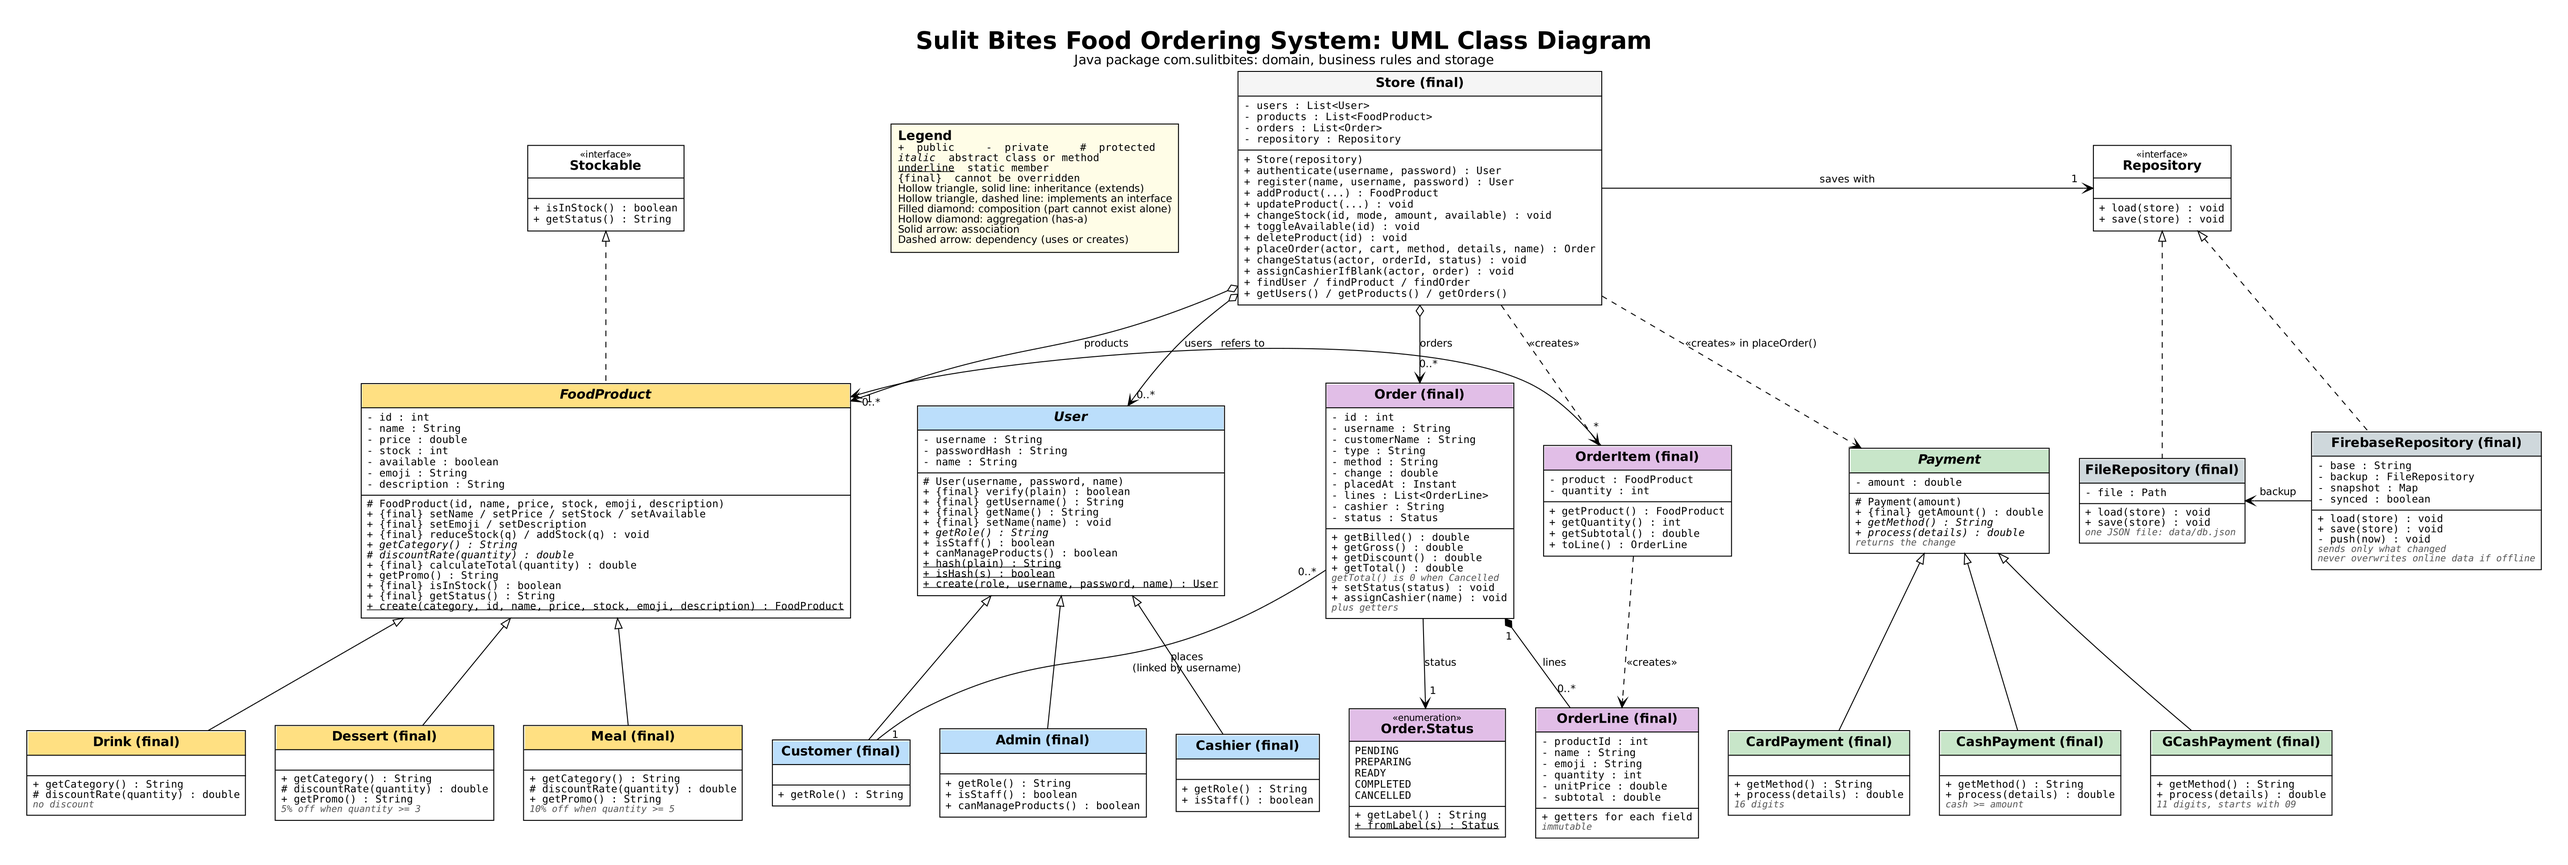
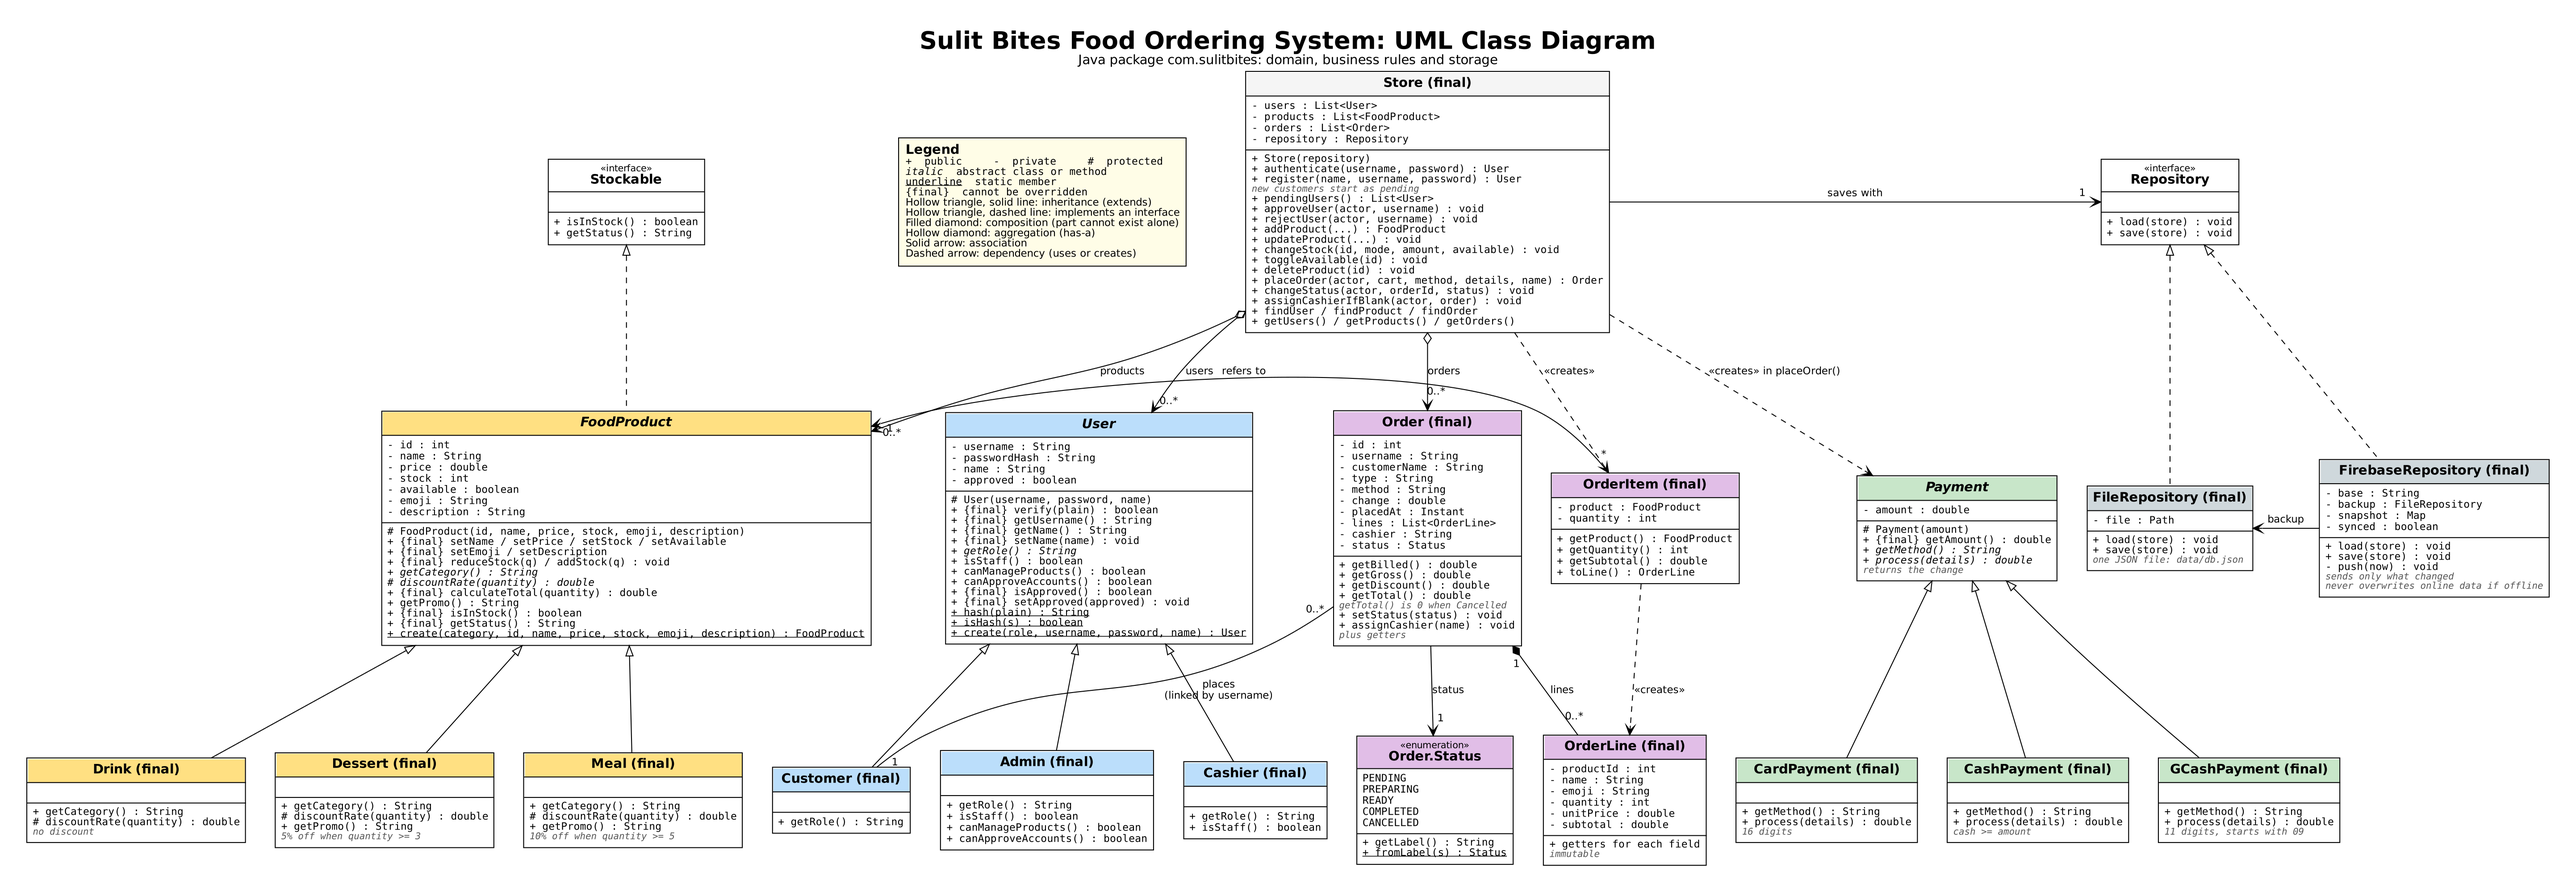
Add files via upload
Add logo in the login and before you create account admin accept you account

diff --git a/src/com/sulitbites/Pages.java b/src/com/sulitbites/Pages.java
@@ -120,19 +120,21 @@ final class Pages {
     private String row(String l, String r) { return "<div class='r'><span>" + l + "</span><span>" + r + "</span></div>"; }
 
     String login(Ctx c) {
-        return layout(c, "Login", "<section class='auth'><div class='card ac'><div class='tabs'><a class='pill on' href='/login'>Login</a><a class='pill' href='/register'>Register</a></div><h2>Welcome back</h2><br>"
+        return layout(c, "Login", "<section class='auth'><div class='card ac'>" + authLogo() + "<div class='tabs'><a class='pill on' href='/login'>Login</a><a class='pill' href='/register'>Register</a></div><h2>Welcome back</h2><br>"
             + "<form method='post' action='/login'><input name='username' class='in' placeholder='Username' aria-label='Username' required autocomplete='username'><input name='password' type='password' class='in' placeholder='Password' aria-label='Password' required autocomplete='current-password'><br><button class='btn lg full'>Login</button></form></div></section>");
     }
     String register(Ctx c) {
-        return layout(c, "Register", "<section class='auth'><div class='card ac'><div class='tabs'><a class='pill' href='/login'>Login</a><a class='pill on' href='/register'>Register</a></div><h2>Create your account</h2><br>"
-            + "<form method='post' action='/register'><input name='name' class='in' placeholder='Full name' aria-label='Full name' required><input name='username' class='in' placeholder='Username' aria-label='Username' required autocomplete='username'><input name='password' type='password' class='in' placeholder='Password (4+ characters)' aria-label='Password' required autocomplete='new-password'><br><button class='btn lg full'>Create account</button></form><p class='hint'>Username: 3 to 20 letters, numbers or underscores.</p></div></section>");
+        return layout(c, "Register", "<section class='auth'><div class='card ac'>" + authLogo() + "<div class='tabs'><a class='pill' href='/login'>Login</a><a class='pill on' href='/register'>Register</a></div><h2>Create your account</h2><br>"
+            + "<form method='post' action='/register'><input name='name' class='in' placeholder='Full name' aria-label='Full name' required><input name='username' class='in' placeholder='Username' aria-label='Username' required autocomplete='username'><input name='password' type='password' class='in' placeholder='Password (4+ characters)' aria-label='Password' required autocomplete='new-password'><br><button class='btn lg full'>Request account</button></form><p class='hint'>Username: 3 to 20 letters, numbers or underscores.</p><p class='hint'><b>New accounts need the admin's approval</b> before you can log in.</p></div></section>");
     }
 
     // ---------------------------------------------------------------- staff pages
     private String shell(Ctx c, String active, String inner) {
-        String[][] links = {{"dashboard", "/staff", "Dashboard", "0"}, {"products", "/staff/products", "Products", "1"}, {"orders", "/staff/orders", "Orders", "0"}, {"customers", "/staff/customers", "Customers", "1"}, {"payments", "/staff/payments", "Payments", "0"}};
+        String[][] links = {{"dashboard", "/staff", "Dashboard", "0"}, {"products", "/staff/products", "Products", "1"}, {"orders", "/staff/orders", "Orders", "0"}, {"customers", "/staff/customers", "Customers", "1"}, {"requests", "/staff/requests", "Account requests", "2"}, {"payments", "/staff/payments", "Payments", "0"}};
         StringBuilder b = new StringBuilder("<section class='adm sec'><aside class='side card'>");
-        for (String[] l : links) if (l[3].equals("0") || c.user.canManageProducts()) b.append("<a class='").append(l[0].equals(active) ? "on" : "").append("' href='").append(l[1]).append("'>").append(l[2]).append("</a>");
+        int pending = store.pendingUsers().size();
+        for (String[] l : links) if (l[3].equals("0") || (l[3].equals("1") && c.user.canManageProducts()) || (l[3].equals("2") && c.user.canApproveAccounts()))
+            b.append("<a class='").append(l[0].equals(active) ? "on" : "").append("' href='").append(l[1]).append("'>").append(l[2]).append(l[0].equals("requests") && pending > 0 ? " <span class='cnt'>" + pending + "</span>" : "").append("</a>");
         return b.append("</aside><div>").append(inner).append("</div></section>").toString();
     }
     private String bars(Map<String, Double> data, boolean money) {
@@ -150,7 +152,9 @@ final class Pages {
         }
         long low = store.getProducts().stream().filter(p -> !p.getStatus().equals("In stock")).count();
         Map<String, Double> top = new LinkedHashMap<>(); sold.entrySet().stream().sorted((x, y) -> Double.compare(y.getValue(), x.getValue())).limit(5).forEach(e -> top.put(e.getKey(), e.getValue()));
-        StringBuilder b = new StringBuilder("<h2>Dashboard</h2><div class='stats4'>");
+        StringBuilder b = new StringBuilder("<h2>Dashboard</h2>"); int waiting = store.pendingUsers().size();
+        if (c.user.canApproveAccounts() && waiting > 0) b.append("<a class='flash' href='/staff/requests'>").append(waiting).append(waiting == 1 ? " account request is" : " account requests are").append(" waiting for your approval. Review them</a>");
+        b.append("<div class='stats4'>");
         String[][] st = {{"Total sales", money(sales)}, {"Orders", "" + store.getOrders().size()}, {"Pending", "" + pending}, {"Products", "" + store.getProducts().size()}, {"Low or out of stock", "" + low}};
         for (String[] s : st) b.append("<div class='card st'><span>").append(s[0]).append("</span><b>").append(s[1]).append("</b></div>");
         b.append("</div><div class='two'><div class='card pad'><h3>Best sellers</h3>").append(bars(top, false)).append("</div><div class='card pad'><h3>Sales by payment</h3>").append(bars(pay, true)).append("</div></div><h3 class='mt'>Recent orders</h3><br>");
@@ -179,7 +183,7 @@ final class Pages {
     String customers(Ctx c) {
         StringBuilder b = new StringBuilder("<h2>Customers</h2><br><div class='card tw'><table class='tbl'><tr><th>Name</th><th>Username</th><th>Orders</th><th>Total spent</th></tr>"); int n = 0;
         for (User u : store.getUsers()) {
-            if (u.isStaff()) continue; n++; int cnt = 0; double spent = 0;
+            if (u.isStaff() || !u.isApproved()) continue; n++; int cnt = 0; double spent = 0;
             for (Order o : store.getOrders()) if (o.getUsername().equals(u.getUsername()) && o.getStatus() != Order.Status.CANCELLED) { cnt++; spent += o.getTotal(); }
             b.append("<tr>").append(td("Name", h(u.getName()))).append(td("Username", h(u.getUsername()))).append(td("Orders", "" + cnt)).append(td("Total spent", money(spent))).append("</tr>");
         }
@@ -197,6 +201,19 @@ final class Pages {
         }
         if (n == 0) b.append("<tr><td colspan='6' class='mut'>No payments match.</td></tr>");
         return layout(c, "Payments", shell(c, "payments", b.append("</table></div>").toString()));
+    }
+    private String authLogo() { return "<div class='authlogo'><span class='bigbun'>\uD83C\uDF54</span><h1>Sulit Bites</h1></div>"; }
+    String requests(Ctx c) {
+        StringBuilder b = new StringBuilder("<h2>Account requests</h2><p class='mut'>People who registered must be approved here before they can log in.</p><br><div class='card tw'><table class='tbl'><tr><th>Name</th><th>Username</th><th></th></tr>");
+        List<User> pending = store.pendingUsers();
+        if (pending.isEmpty()) b.append("<tr><td colspan='3' class='mut'>No pending requests.</td></tr>");
+        for (User u : pending) {
+            String hidden = "<input type='hidden' name='username' value='" + h(u.getUsername()) + "'>";
+            b.append("<tr>").append(td("Name", h(u.getName()))).append(td("Username", h(u.getUsername())))
+                .append("<td class='act' data-label=''><form method='post' action='/staff/requests/approve' class='inl'>").append(hidden).append("<button class='btn sm'>Approve</button></form> ")
+                .append("<form method='post' action='/staff/requests/reject' class='inl'>").append(hidden).append("<button class='btn alt sm'>Reject</button></form></td></tr>");
+        }
+        return layout(c, "Account requests", shell(c, "requests", b.append("</table></div>").toString()));
     }
     String staffProducts(Ctx c) {
         StringBuilder b = new StringBuilder("<div class='sh'><h2>Products</h2><a class='btn sm' href='/staff/product'>Add product</a></div><div class='card tw'><table class='tbl'><tr><th></th><th>Name</th><th>Category</th><th>Price</th><th>Stock</th><th>Status</th><th></th></tr>");

diff --git a/src/com/sulitbites/SulitBitesWebApp.java b/src/com/sulitbites/SulitBitesWebApp.java
@@ -106,6 +106,7 @@ public final class SulitBitesWebApp {
     }
     private Response needLogin(Request r) { return r.user == null ? redirect("/login", "Please log in first.", true) : null; }
     private Response needStaff(Request r) { Response x = needLogin(r); return x != null ? x : r.user.isStaff() ? null : forbidden(r); }
+    private Response needApprover(Request r) { Response x = needStaff(r); return x != null ? x : r.user.canApproveAccounts() ? null : forbidden(r); }
     private Response needAdmin(Request r) { Response x = needStaff(r); return x != null ? x : r.user.canManageProducts() ? null : forbidden(r); }
     private Response startSession(Request r, User u, String to) {
         byte[] b = new byte[24]; random.nextBytes(b); StringBuilder t = new StringBuilder(); for (byte x : b) t.append(String.format("%02x", x));
@@ -141,6 +142,7 @@ public final class SulitBitesWebApp {
             case "/staff/orders": if ((block = needStaff(r)) != null) return block; return page(r, pages.staffOrders(c));
             case "/staff/payments": if ((block = needStaff(r)) != null) return block; return page(r, pages.payments(c, r.q("q"), r.q("m")));
             case "/staff/customers": if ((block = needAdmin(r)) != null) return block; return page(r, pages.customers(c));
+            case "/staff/requests": if ((block = needApprover(r)) != null) return block; return page(r, pages.requests(c));
             case "/staff/products": if ((block = needAdmin(r)) != null) return block; return page(r, pages.staffProducts(c));
             case "/staff/product": {
                 if ((block = needAdmin(r)) != null) return block;
@@ -172,6 +174,13 @@ public final class SulitBitesWebApp {
             case "/staff/status": if ((block = needStaff(r)) != null) return block; return changeStatus(r);
             case "/staff/product/save": if ((block = needAdmin(r)) != null) return block; return saveProduct(r);
             case "/staff/stock/save": if ((block = needAdmin(r)) != null) return block; return saveStock(r);
+            case "/staff/requests/approve": case "/staff/requests/reject": {
+                if ((block = needApprover(r)) != null) return block; boolean ok = p.endsWith("approve"); String who = r.f("username");
+                try {
+                    if (ok) store.approveUser(r.user, who); else store.rejectUser(r.user, who);
+                    return redirect("/staff/requests", ok ? who + " is approved. They can log in now." : "Request from " + who + " was rejected.", false);
+                } catch (IllegalArgumentException e) { return redirect("/staff/requests", e.getMessage(), true); }
+            }
             case "/staff/toggle": {
                 if ((block = needAdmin(r)) != null) return block;
                 try { store.toggleAvailable(num(r.f("id"), -1)); FoodProduct f = store.findProduct(num(r.f("id"), -1)); return redirect("/staff/products", f.getName() + (f.isAvailable() ? " is available again." : " is marked out of stock."), false); }
@@ -193,10 +202,11 @@ public final class SulitBitesWebApp {
         User u = store.authenticate(r.f("username").trim(), r.f("password"));
         if (u == null) { long[] x = failures.computeIfAbsent(name, k -> new long[]{0, now}); x[0]++; return redirect("/login", "Wrong username or password. Check both and try again.", true); }
         failures.remove(name);
+        if (!u.isApproved()) return redirect("/login", "Your account is waiting for the admin's approval. Please try again later.", true);
         return startSession(r, u, u.isStaff() ? "/staff" : "/menu");
     }
     private Response doRegister(Request r) {
-        try { User u = store.register(r.f("name"), r.f("username").trim(), r.f("password")); return startSession(r, u, "/menu"); }
+        try { store.register(r.f("name"), r.f("username").trim(), r.f("password")); return redirect("/login", "Request sent! You can log in after the admin approves your account.", false); }
         catch (IllegalArgumentException e) { return redirect("/register", e.getMessage(), true); }
     }
     private Response cartAdd(Request r) {

diff --git a/src/com/sulitbites/Store.java b/src/com/sulitbites/Store.java
@@ -54,8 +54,20 @@ public final class Store {
         if (username == null || !username.matches("[A-Za-z0-9_]{3,20}")) throw new IllegalArgumentException("Username must be 3 to 20 letters, numbers or underscores.");
         if (password == null || password.length() < 4) throw new IllegalArgumentException("Password needs 4 or more characters.");
         if (findUser(username) != null) throw new IllegalArgumentException("That username is taken. Pick another one.");
-        User u = new Customer(username, password, name); users.add(u); persist(); return u;
+        User u = new Customer(username, password, name); u.setApproved(false); users.add(u); persist(); return u;     // waits for the admin
     }
+    public List<User> pendingUsers() { List<User> l = new ArrayList<>(); for (User u : users) if (!u.isApproved()) l.add(u); return l; }
+    public void approveUser(User actor, String username) {
+        requireApprover(actor); User u = findUser(username);
+        if (u == null || u.isApproved()) throw new IllegalArgumentException("That request was not found.");
+        u.setApproved(true); persist();
+    }
+    public void rejectUser(User actor, String username) {
+        requireApprover(actor); User u = findUser(username);
+        if (u == null || u.isApproved()) throw new IllegalArgumentException("Only pending requests can be rejected.");
+        users.remove(u); persist();
+    }
+    private void requireApprover(User actor) { if (actor == null || !actor.canApproveAccounts()) throw new IllegalArgumentException("Only the admin can approve accounts."); }
 
     // ---- products and stock (the web layer checks that the user is the admin)
     public FoodProduct addProduct(String category, String name, double price, int stock, String emoji, String description) {

diff --git a/src/com/sulitbites/Codec.java b/src/com/sulitbites/Codec.java
@@ -10,7 +10,7 @@ final class Codec {
 
     static Map<String, Object> toMap(User u) {
         Map<String, Object> m = new LinkedHashMap<>();
-        m.put("role", u.getRole()); m.put("username", u.getUsername()); m.put("password", u.getPasswordHash()); m.put("name", u.getName()); return m;
+        m.put("role", u.getRole()); m.put("username", u.getUsername()); m.put("password", u.getPasswordHash()); m.put("name", u.getName()); m.put("approved", u.isApproved()); return m;
     }
     static Map<String, Object> toMap(FoodProduct p) {
         Map<String, Object> m = new LinkedHashMap<>();
@@ -40,7 +40,11 @@ final class Codec {
     }
     @SuppressWarnings("unchecked") private static Map<String, Object> map(Object o) { return (Map<String, Object>) o; }
 
-    static User user(Map<String, Object> m) { return User.create(str(m.get("role"), "Customer"), str(m.get("username"), ""), str(m.get("password"), ""), str(m.get("name"), "")); }
+    static User user(Map<String, Object> m) {
+        User u = User.create(str(m.get("role"), "Customer"), str(m.get("username"), ""), str(m.get("password"), ""), str(m.get("name"), ""));
+        u.setApproved(!Boolean.FALSE.equals(m.get("approved")));                  // accounts saved before approval existed stay approved
+        return u;
+    }
     static FoodProduct product(Map<String, Object> m) {
         FoodProduct p = FoodProduct.create(str(m.get("category"), "Meal"), (int) num(m.get("id")), str(m.get("name"), ""), num(m.get("price")), (int) num(m.get("stock")), str(m.get("emoji"), ""), str(m.get("desc"), ""));
         p.setAvailable(!Boolean.FALSE.equals(m.get("available"))); return p;

diff --git a/src/com/sulitbites/User.java b/src/com/sulitbites/User.java
@@ -8,6 +8,7 @@ public abstract class User {
     private final String username;
     private final String passwordHash;
     private String name;
+    private boolean approved = true;                     // new customers start as false until the admin approves them
 
     protected User(String username, String password, String name) {
         if (username == null || username.isBlank()) throw new IllegalArgumentException("Username is required.");
@@ -35,6 +36,9 @@ public abstract class User {
     public abstract String getRole();                    // POLYMORPHISM: each subclass names its own role
     public boolean isStaff() { return false; }
     public boolean canManageProducts() { return false; }
+    public boolean canApproveAccounts() { return false; }                       // only the admin approves new accounts
+    public final boolean isApproved() { return approved; }
+    public final void setApproved(boolean approved) { this.approved = approved; }
 
     /** Factory method used when loading users from storage. */
     public static User create(String role, String username, String password, String name) {

diff --git a/src/com/sulitbites/Css.java b/src/com/sulitbites/Css.java
@@ -134,5 +134,7 @@ a.pill{display:inline-block}.qtyin{width:76px;margin:0;padding:6px 8px;text-alig
  .bd{border-color:#000;background:#fff!important;color:#000!important}.stamp{color:#000;border-color:#000}.mut,.rh p{color:#000}
  @page{margin:6mm}
 }
+.authlogo{text-align:center;margin-bottom:18px}.bigbun{display:inline-grid;place-items:center;width:92px;height:92px;font-size:54px;background:var(--yel);border:3px solid var(--ink);border-radius:50%;box-shadow:var(--sh)}
+.authlogo h1{font-size:30px;font-weight:800;margin-top:12px}a.flash{display:block;text-decoration:none;color:inherit}
 """;
 }

diff --git a/src/com/sulitbites/Admin.java b/src/com/sulitbites/Admin.java
@@ -4,4 +4,5 @@ public final class Admin extends User {
     @Override public String getRole() { return "Admin"; }
     @Override public boolean isStaff() { return true; }
     @Override public boolean canManageProducts() { return true; }
+    @Override public boolean canApproveAccounts() { return true; }
 }

diff --git a/README.md b/README.md
@@ -47,6 +47,7 @@ Netlify (sulitbites.netlify.app)  ->  forwards every request to the Java server 
 - Cashier: dashboard, orders (change status), payments, walk-in orders, receipts that can be printed
 - Admin: everything the cashier can do, plus products (add, edit, delete), **stock** (add, set, mark out of stock) and customers. Only the admin can change stock
 - Receipt: store name, branch, date and time, cashier, customer, items, discount, total, payment. Only Admin and Cashier can print it (Ctrl+P)
+- New accounts are **pending** until the admin approves them (Account requests page). Pending accounts cannot log in
 - A cancelled order counts as 0.00, returns its stock and cannot be changed again
 
 ## Four Pillars of OOP
